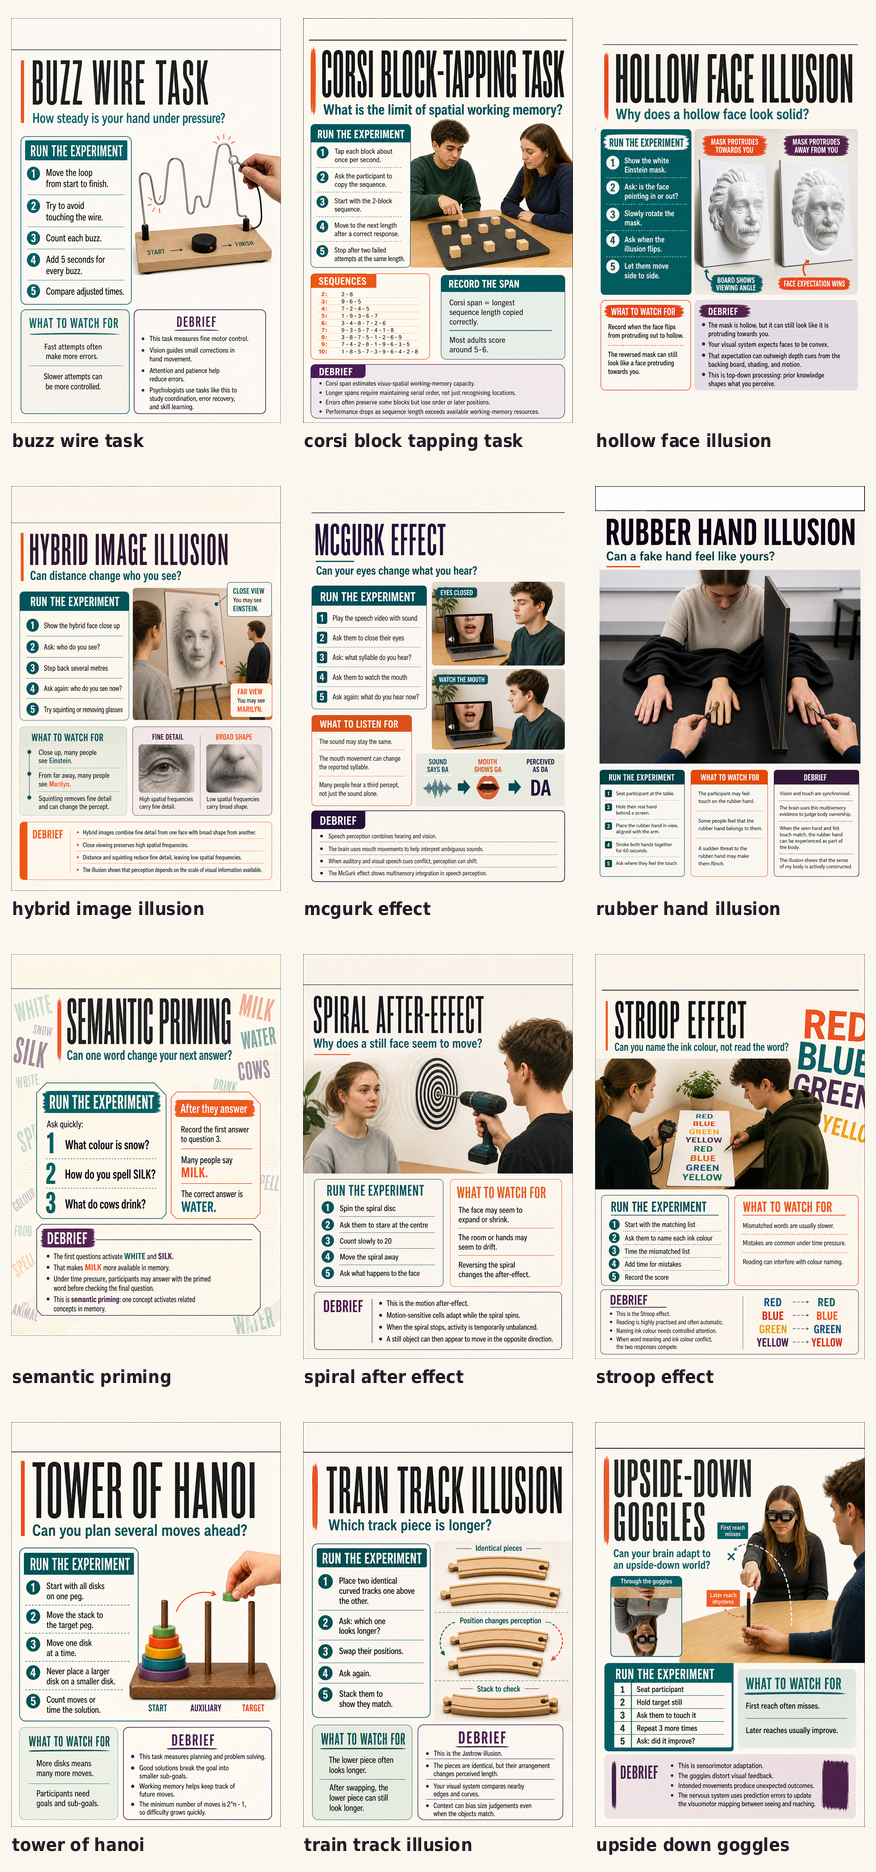
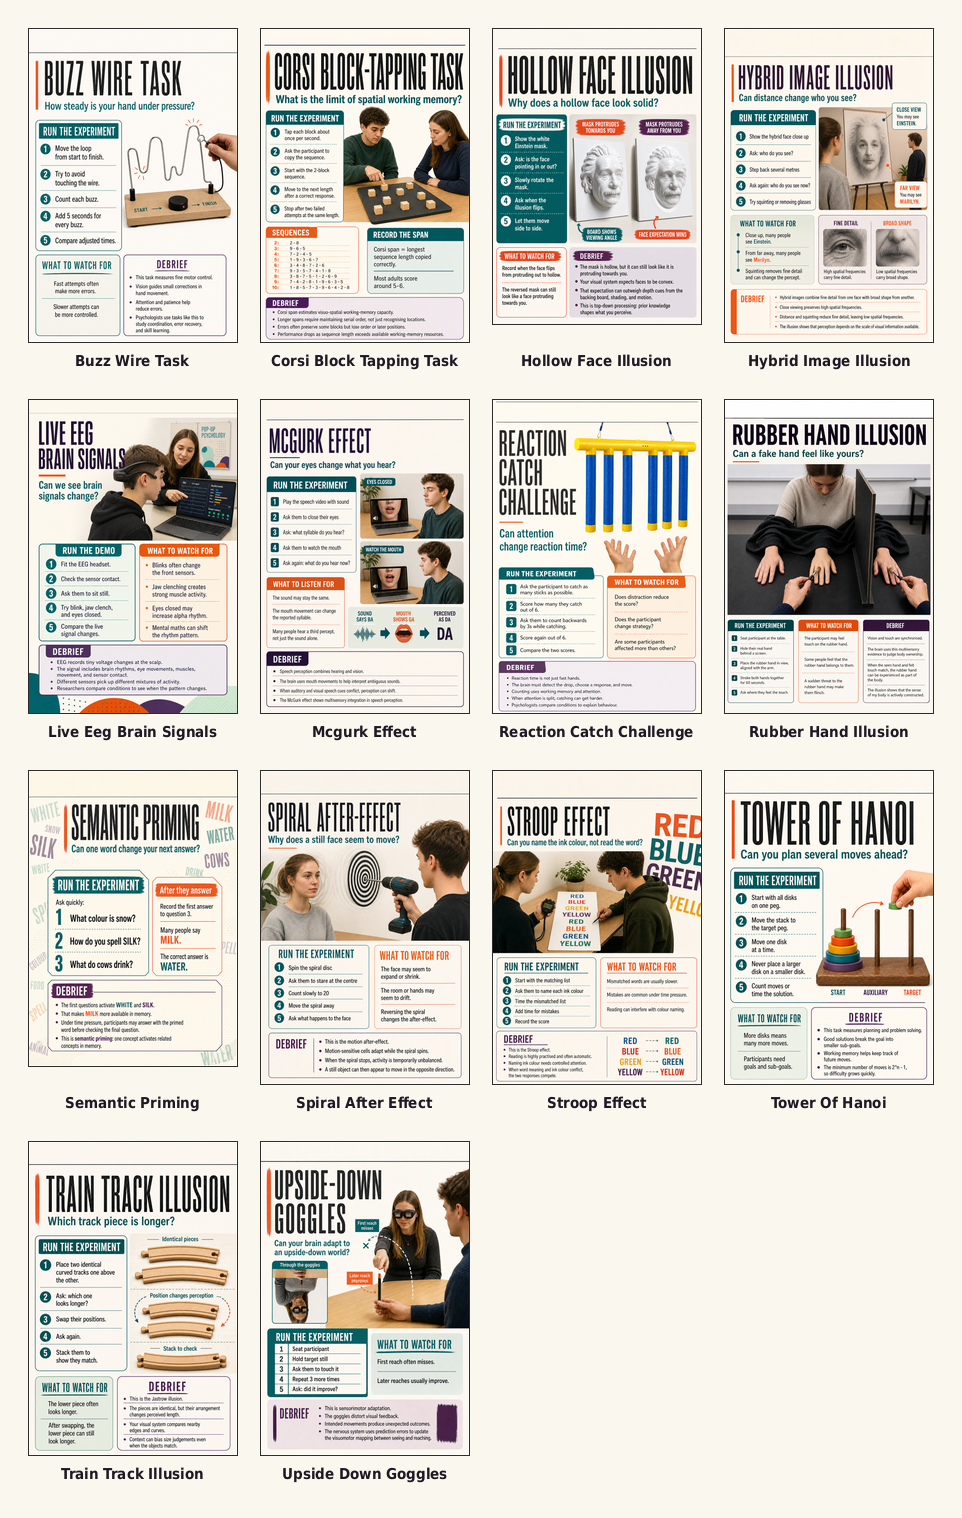
feat: add live EEG poster asset

diff --git a/scripts/qc_posters.py b/scripts/qc_posters.py
@@ -25,15 +25,28 @@ def poster_files(directory: Path) -> list[Path]:
 def header_dark_rule_y(image: Image.Image) -> int | None:
     rgb = image.convert("RGB")
     width, height = rgb.size
+    best_y = None
+    best_dark = 0
+    muted_candidate = None
     for y in range(round(height * 0.035), min(round(height * 0.18), height)):
         dark = 0
+        muted = 0
         for x in range(width):
             r, g, b = rgb.getpixel((x, y))
             if r < 90 and g < 90 and b < 90:
                 dark += 1
-        if dark > width * 0.35:
-            return y
-    return None
+            if (r + g + b) / 3 < 230:
+                muted += 1
+        if dark > best_dark:
+            best_y = y
+            best_dark = dark
+        if muted_candidate is None and muted > width * 0.35:
+            muted_candidate = y
+    if muted_candidate is not None and (best_y is None or muted_candidate < best_y):
+        return muted_candidate
+    if best_dark > width * 0.35:
+        return best_y
+    return muted_candidate
 
 
 def check_file(path: Path, *, headered: bool) -> list[str]:
@@ -51,7 +64,7 @@ def check_file(path: Path, *, headered: bool) -> list[str]:
     rule_y = header_dark_rule_y(image)
     if rule_y is None:
         issues.append("header rule not detected")
-    elif not 0.05 <= rule_y / height <= 0.12:
+    elif not 0.04 <= rule_y / height <= 0.12:
         issues.append(f"header rule unusual position: {rule_y}px")
 
     if headered:

diff --git a/scripts/apply_header_logos.py b/scripts/apply_header_logos.py
@@ -36,16 +36,24 @@ def find_header_rule_y(poster: Image.Image) -> int:
 
     best_y = round(height * 0.09)
     best_dark = 0
+    muted_candidate: int | None = None
     for y in range(search_start, search_end):
         dark = 0
+        muted = 0
         for x in range(width):
             r, g, b = rgb.getpixel((x, y))
             if r < 90 and g < 90 and b < 90:
                 dark += 1
+            if (r + g + b) / 3 < 230:
+                muted += 1
         if dark > best_dark:
             best_y = y
             best_dark = dark
+        if muted_candidate is None and muted > width * 0.35:
+            muted_candidate = y
 
+    if muted_candidate is not None and muted_candidate < best_y:
+        return muted_candidate
     if best_dark < width * 0.35:
         return round(height * 0.095)
     return best_y

diff --git a/scripts/build_contact_sheet.py b/scripts/build_contact_sheet.py
@@ -17,6 +17,7 @@ CANONICAL_POSTERS = [
     "corsi-block-tapping-task.png",
     "hollow-face-illusion.png",
     "hybrid-image-illusion.png",
+    "live-eeg-brain-signals.png",
     "mcgurk-effect.png",
     "reaction-catch-challenge.png",
     "rubber-hand-illusion.png",

diff --git a/image-prompts.md b/image-prompts.md
@@ -1167,3 +1167,113 @@ No explanatory diagram.
 No worksheet-style heavy boxes.
 No text, marks, icons, boxes, or placeholder elements in the empty header band.
 ```
+
+## Live EEG Brain Signals
+
+```text
+Use the attached reference image as the physical-object reference for the headset: an Emotiv Insight 5-channel wireless EEG headband, with a black curved headband frame, rear side module, and small sensor arms/contacts positioned around the forehead, sides, and back/top of the head. Create a new A4 portrait experiment station poster for Pop-Up Psychology, not a product advert and not a generic EEG cap.
+
+HOUSE STYLE
+
+Project: Pop-Up Psychology
+Format: A4 portrait experiment station poster.
+Audience: A-level psychology students.
+Purpose: Help an experimenter run a public psychology experiment and support a short debrief.
+
+Header:
+Empty thin header band across the top 10-15% of the poster.
+
+Visual identity: Perception Studio.
+Use soft ivory paper, graphite typography, electric teal, persimmon, aubergine, and pale mint accents. The design should feel tactile, editorial, curious, mature, and suitable for psychology outreach.
+
+Typography:
+Use a contemporary museum typography system: a tall condensed grotesk display face for the activity title, an elegant humanist sans for the question, and a refined readable sans for instructions and debrief. The typography should feel intentionally designed rather than generic system sans.
+
+VISIBLE TEXT
+Only this text should appear on the poster.
+
+Activity title:
+LIVE EEG BRAIN SIGNALS
+
+Main question:
+Can we see brain signals change?
+
+Primary panel title:
+RUN THE DEMO
+
+Primary panel text:
+1 Fit the EEG headset.
+2 Check the sensor contact.
+3 Ask them to sit still.
+4 Try blink, jaw clench, and eyes closed.
+5 Compare the live signal changes.
+
+Observation section title:
+WHAT TO WATCH FOR
+
+Observation section text:
+Blinks often change the front sensors.
+Jaw clenching creates strong muscle activity.
+Eyes closed may increase alpha rhythm.
+Mental maths can shift the rhythm pattern.
+
+Image labels:
+EEG
+Live signal
+Rhythm bands
+Sensor contact
+AF3
+AF4
+T7
+T8
+Pz
+
+Debrief title:
+DEBRIEF
+
+Debrief text:
+- EEG records tiny voltage changes at the scalp.
+- The signal includes brain rhythms, eye movements, muscles, movement, and sensor contact.
+- Different sensors pick up different mixtures of activity.
+- Researchers compare conditions to see when the pattern changes.
+
+COMPOSITION
+Top section:
+Activity title and main question should be visually strong but should not dominate the whole poster.
+
+Main visual:
+Use the attached reference image to make the headset accurate. Show a student volunteer seated at a table wearing an Emotiv Insight-style EEG headband while looking at a laptop or tablet. A student experimenter stands beside them and points to the live display. The screen should show clear raw EEG traces, simple rhythm bars, and sensor contact indicators. The headset sensors, volunteer, display, and experimenter should all be visible. The scene should feel like a real school psychology outreach demonstration, practical and approachable, not futuristic or medical.
+
+Primary section:
+Large RUN THE DEMO panel with the exact procedural steps. This is the most important text block on the poster.
+
+Observation section:
+Place WHAT TO WATCH FOR directly beside or beneath the demo steps so the experimenter knows what visible signal changes to point out.
+
+Debrief section:
+Use a clear bullet debrief. This is the second most important content area after the demo steps.
+
+EXCLUSIONS
+No QR code.
+No slogan.
+No promotional footer strip.
+No cartoon brain icon.
+No decorative icons in content blocks.
+No duplicate mini panels.
+No explanatory diagram.
+No worksheet-style heavy boxes.
+No glowing brain hologram.
+No futuristic sci-fi interface.
+No medical diagnosis framing.
+No claim that EEG reads thoughts.
+No claim that the signal is only brain activity.
+No hospital bed or clinical treatment scene.
+No generic EEG cap.
+No medical electrode cap.
+No headset with dozens of wires.
+No sci-fi neural helmet.
+No product advert composition.
+No fake Emotiv logo or distorted brand text.
+No tiny unreadable sensor labels.
+No text, marks, icons, boxes, or placeholder elements in the empty header band.
+```
